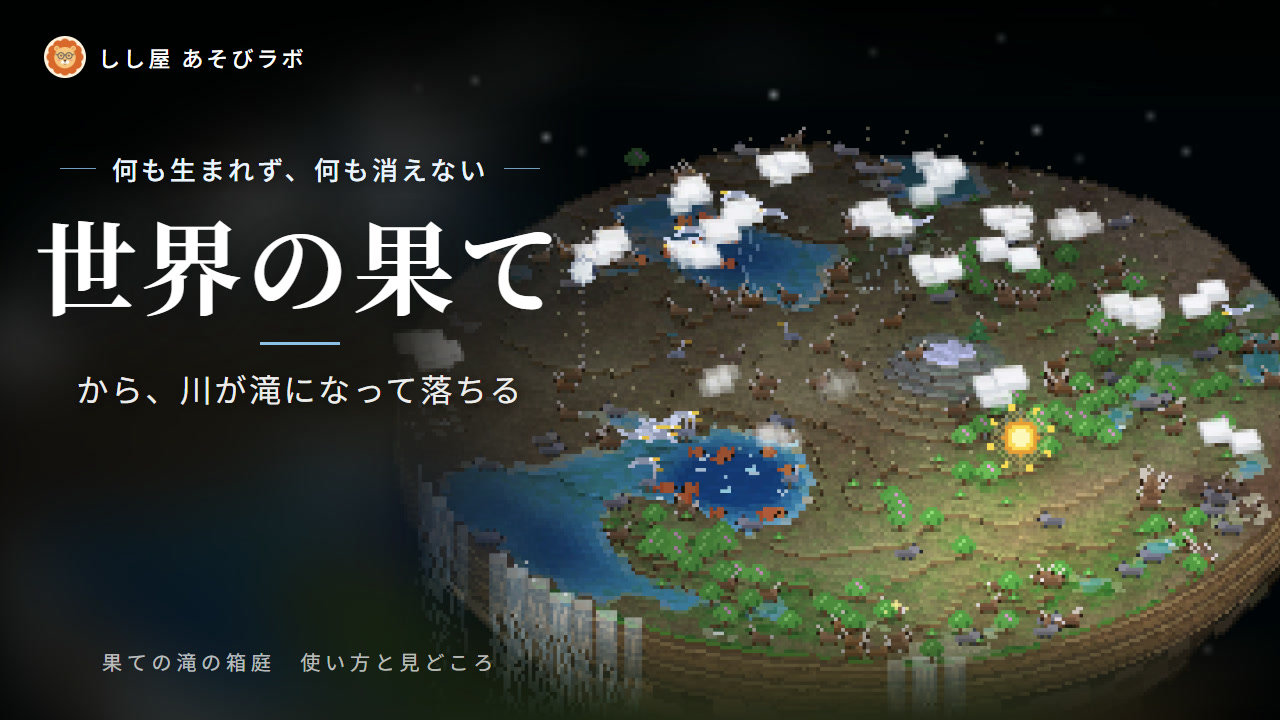
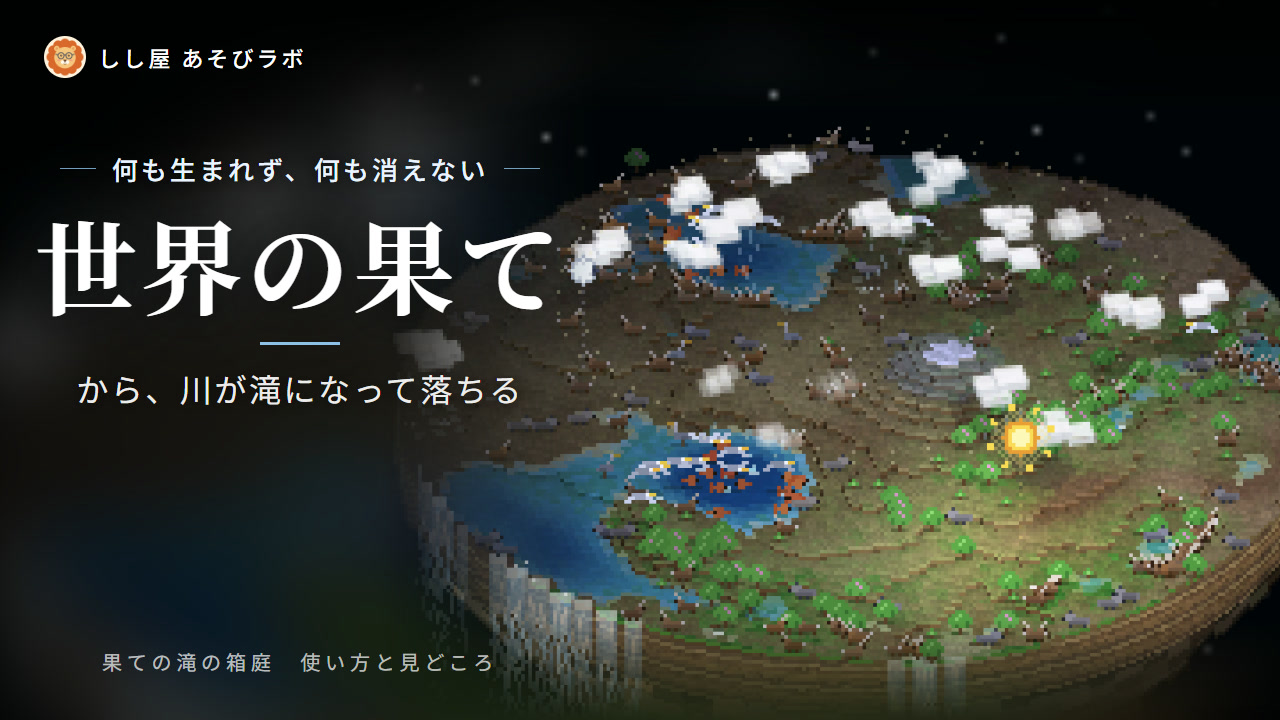
あそびラボ: ネタバレ厳禁のルール・果ての滝の紹介動画からエンディングを外す
- RULES 8章に「ネタバレ厳禁」: 紹介動画・サムネイル・SNS・カードに、エンディングや終盤の山場の演出・最後に明かされることを出さない（ダイジェストは確認用なのでクリアまで）
- ショート・説明動画の終わりを、くずれる演出から「第十の年 めぐる世界」とできた世界に差しかえ
- ダイジェストはエンディングの演出がない版でも十の年を通ったら止まる。?game= で開くゲームを選べる（書きかえ途中のときはコミットずみの版で録る）

diff --git a/_dev/promo/edge-falls.html b/_dev/promo/edge-falls.html
@@ -16,6 +16,7 @@
 // 台本: 果ての滝の箱庭（ショート、縦長 40秒＋締め。?short で開く）
 // ゲームをスマホの大きさ（540×960）で開き、4倍の細かさで描かせる。場面は edge-falls-digest.html が残した章のはじめのセーブから始める
 // （先にダイジェストを録る。セーブは out/edge-falls-save-ch<n>.json）。手（泉・たね）はゲームの道具の関数で打つ
+// エンディング・世界がくずれる演出は見せない（ネタバレ。2026-10-13 ユーザー。RULES 8章）
 const IW = 540, IH = 960, DPR = 4;
 const NAME = '果ての滝の箱庭', SUB = '世界の果てから、川が滝になって落ちる箱庭ゲーム';
 const END_LINE = 'ブラウザで遊べます（パソコン・スマホ）';
@@ -29,8 +30,8 @@ const CAPS = [
     en: ['Each year brings one new kind of life', 'Grass, deer, wolves, fish, herons (ten years)'] },
   { a: 24.4, b: 30.6, main: '何も生まれず、何も消えない', sub: 'ただ、めぐるだけ。食べる・食べられる',
     en: ['Nothing is created, nothing is lost', 'It only goes around. Eat and be eaten'] },
-  { a: 31.0, b: 35.0, main: '十の年をこえると、殻がはがれて…', sub: '',
-    en: ['After ten years, the shell peels away...', ''] },
+  { a: 31.0, b: 35.0, main: '十の年で、どんな世界になる？', sub: '水と命がめぐる世界をつくる',
+    en: ['What will your world become in ten years?', 'Build a world where water and life go around'] },
 ];
 const lakeP = (w, f) => { const W = w.__ef.W, C = efGet(w, 'C'), RD = efGet(w, 'RD'); return { x: C + W.lake.x * RD * f, y: C + W.lake.y * RD * f }; };
 let Y0 = 0;
@@ -52,12 +53,11 @@ const SC = [
     pre: w => { Y0 = w.__ef.V.yaw; },
     view: (V, lt, w) => { const W = w.__ef.W, C = efGet(w, 'C'), RD = efGet(w, 'RD'); V.yaw = Y0 + 0.2 + lt * 0.02; V.tilt = 0.5; V.zoom = 1.9 + lt * 0.03;
       const p = w.proj(C + W.lake.x * RD * 0.6, C + W.lake.y * RD * 0.6, 0); V.panX = (V.panX || 0) + (V.cw / 2 - p.x) * 0.5; V.panY = (V.panY || 0) + (V.ch * 0.45 - p.y) * 0.5; } },
-  // エンディング: 殻がはがれて丸い世界
-  { a: 31.0, b: 99, save: 'ch9', speed: 1, pre: w => { Y0 = w.__ef.V.yaw; w.__ef.V.zoom = 0.98; w.__ef.V.tilt = 0.55; w.__ef.V.panY = -70; },
-    ev: [{ t: 0.4, run: w => w.startCollapse('shell') }] },
+  // しめくくり: できた世界を引いて回す（エンディング・くずれる演出は見せない。RULES 8章）
+  { a: 31.0, b: 99, save: 'ch9', speed: 4, pre: w => { Y0 = w.__ef.V.yaw; }, view: (V, lt) => { V.yaw = Y0 - 0.6 + lt * 0.05; V.tilt = 0.5; V.zoom = 0.9; V.panY = -70; } },
 ];
 promoStart({
-  name: NAME, out: 'edge-falls', src: '../../edge-falls/index.html', iw: IW, ih: IH, dur: SHORT_END + IDENT_CLOSE, peek: 12,
+  name: NAME, out: 'edge-falls', src: EF_SRC, iw: IW, ih: IH, dur: SHORT_END + IDENT_CLOSE, peek: 12,
   inject: { pre: EF_PRE, dpr: DPR },
   music: { style: 'journey', root: 130.81, stopAt: SHORT_END, cues: [{ t: SHORT_END, type: 'jingle' }] },
   subs: shortSubs(NAME, 'Falls at the Edge of the World', SUB, 'A sandbox where rivers pour off the edge of a flat world', CAPS, END_LINE, 'Play in your browser (PC or phone). On-screen text is in Japanese for now'),

diff --git a/_dev/promo/edge-falls-digest.html b/_dev/promo/edge-falls-digest.html
@@ -30,14 +30,14 @@ const out = document.getElementById('out'), g = out.getContext('2d'), go = docum
 const logEl = document.getElementById('log'), log = s => { logEl.textContent += s + '\n'; };
 const iframe = document.getElementById('app');
 (async () => {
-  const base = new URL('../../edge-falls/index.html', location.href);
+  const base = new URL(EF_SRC, location.href);
   const html = await (await fetch(base)).text();
   const head = `<base href="${base.href.replace(/[^/]*$/, '')}"><script>${EF_PRE}Object.defineProperty(window, 'devicePixelRatio', { get: () => ${K} });</` + 'script>';
   iframe.srcdoc = html.replace(/<head[^>]*>/i, m => m + head);
 })();
 
 const YN = ['第一', '第二', '第三', '第四', '第五', '第六', '第七', '第八', '第九', '第十'];
-const REP = { seed: SEED, chapters: [], errors: [], ending: false, days: 0, videoSec: 0, finds: 0 };
+const REP = { seed: SEED, chapters: [], errors: [], clear: false, ending: false, days: 0, videoSec: 0, finds: 0 };
 let w, vi = 0, phase = 'title', phaseV = 0, lastCh = -1, chStartV = 0, endV = 0, rate = 16;
 
 function hud(t) {
@@ -103,12 +103,13 @@ async function step() {
     rate = G.ch % 1 ? 16 : inCh < 4 ? 16 : days > 14 ? 240 : 90;
     sim = Math.max(0, rate / FPS_D - 16 / FPS_D);
     efBot(w);
-    if (efGet(w, 'COL') || G.ch >= 10) { phase = 'ending'; endV = t; rate = 1; log(`エンディングへ: 第 ${W.day} 日（動画 ${t.toFixed(0)} 秒）`); }
+    if (efGet(w, 'COL') || G.ch >= 10) { phase = 'ending'; endV = t; rate = 1; REP.clear = true; REP.clearDay = W.day; log(`エンディングへ: 第 ${W.day} 日（動画 ${t.toFixed(0)} 秒）`); }
   } else if (phase === 'ending') {
     rate = 1;
     const ov = w.document.getElementById('overlay');
     if (!REP.ending && !ov.hidden && /めぐる世界/.test(ov.textContent)) { REP.ending = true; endV = t; log(`エンディングの札が出た（動画 ${t.toFixed(0)} 秒）`); }
     if (REP.ending && t - endV > 6) return false;
+    if (!REP.ending && t - endV > 24) { log('エンディングの札は出なかった（十の年は通った）'); return false; }   // エンディングの演出がない版でも止まる
     // 殻がはがれる演出は自分では終わらないので、まん中まで見せたら「もとにもどす」と同じ道すじで札へ
     if (!REP.ending && t - endV > 16 && efGet(w, 'COL')) w.document.getElementById('btnRestore').click();
   }

diff --git a/_dev/promo/edge-falls-common.js b/_dev/promo/edge-falls-common.js
@@ -5,6 +5,9 @@
 //          ゲームの道具の関数 useTool をそのまま使う（手に持つ・扇で選ぶ・大地を押す、と同じ道すじ）。
 'use strict';
 const EF = { w: null, vt: 0, log: [], acts: [], saves: {} };
+// 開くゲーム。?game=out/game のように渡すと、そこにある edge-falls を開く（別の会話がゲームを書きかえている途中に、コミットずみの版で録るとき。
+// 例: git archive HEAD edge-falls | tar -x -C _dev/promo/out/game）
+const EF_SRC = (new URLSearchParams(location.search).get('game') || '../..') + '/edge-falls/index.html';
 
 // ゲームより先に動く差しかえ（inject.pre）。時計はこちらの __efAdv(ミリ秒) で進む
 const EF_PRE = `

diff --git a/_dev/promo/README.md b/_dev/promo/README.md
@@ -24,11 +24,13 @@
 - BGM はコードで合成した音だけ（`journey`、レの和音）。音の大きさは、まなびラボの説明動画と同じくらい（平均 -37dB、いちばん大きいところ -13dB）。
 
 ## 果ての滝の箱庭（2026-10-13）
+**ネタバレ厳禁**（`../../RULES.md` 8章）: ショート・説明動画・サムネイルにエンディングと世界がくずれる演出を出さない。終わりは第十の年「めぐる世界」までで、できた世界を回して見せる。ダイジェストは確認用なのでクリアまで録る（エンディングの演出がない版でも、十の年を通ったら止まる）。
+
 | 台本 | 中身 | 出力 |
 |---|---|---|
 | `edge-falls-digest.html` | **ダイジェスト**（あそびラボだけ。RULES 8章）: はじめの画面から自動で遊んでエンディングの札まで。1920×1080・音なし・長さは遊んだぶん（約2分半）。`?dry` は録らずに速く通す、`?seed=` は大地の種（はじめは 3）、`?max=秒` で途中で止める | `out/edge-falls-digest.mp4`・`.json`（章ごとの日・見つけたこと・エラー）、章のはじめのセーブ `out/edge-falls-save-ch0〜9.json` |
-| `edge-falls.html?short` | ショート（縦、ゲームをスマホの大きさ 540×960 で）: できた世界 → 泉を2つ・湖と滝 → 草とシカ（時を速めて）→ 湖に寄って生き物 → 殻がはがれて丸い世界 | `out/edge-falls-short.mp4`・`.ja.srt`・`.en.srt` |
-| `edge-falls-guide.html` | 説明動画（横、1280×720 で開いて3倍、ライオンつき）。はじめの画面 → 水がめ・泉 → 土ぶくろで出口を盛る → たね → シカ → 冬と天の輪 → 食べる・食べられる・命が戻る → 遺伝子の平均 → エンディング | `out/edge-falls-guide.mp4`・`.ja.srt`・`.en.srt` |
+| `edge-falls.html?short` | ショート（縦、ゲームをスマホの大きさ 540×960 で）: できた世界 → 泉を2つ・湖と滝 → 草とシカ（時を速めて）→ 湖に寄って生き物 → できた世界を引いて回す（十の年で、どんな世界になる？） | `out/edge-falls-short.mp4`・`.ja.srt`・`.en.srt` |
+| `edge-falls-guide.html` | 説明動画（横、1280×720 で開いて3倍、ライオンつき）。はじめの画面 → 水がめ・泉 → 土ぶくろで出口を盛る → たね → シカ → 冬と天の輪 → 食べる・食べられる・命が戻る → 遺伝子の平均 → 第十の年「めぐる世界」（エンディングは見せない） | `out/edge-falls-guide.mp4`・`.ja.srt`・`.en.srt` |
 
 - 共通の部品は `edge-falls-common.js`。ゲームを srcdoc で開き、ゲームより先に時計を差しかえる（`EF_PRE`: requestAnimationFrame・setTimeout・performance.now をこちらの `__efAdv(ミリ秒)` で進める。知らせや章のことばも動画の時間で消える）。保存してある果ての滝のセーブ・設定は、録る iframe の中で消し、音は切る。
 - 絵はゲームの `#view` に、**ゲームの画面の小物を写して重ねる**（`efDrawUI`: `#field` の中の見えている canvas・img・色の箱・ふち・文字を、画面での位置のとおりに。文字は1字ずつ Range の位置で）。台本ごとに写さないものを `skip` で選ぶ（説明動画は上が字幕なのでお題の1行を写さない、右下はライオン）。
@@ -38,3 +40,4 @@
   `powershell -NoProfile -ExecutionPolicy Bypass -File _dev/tools/record-promo.ps1 -Port 8781 -Script edge-falls-digest`
   `… -Script edge-falls -Short`、`… -Script edge-falls-guide`
 - BGM はコードで合成した音だけ（`journey`、ハの和音）。
+- **別の会話がゲームを書きかえている途中**（コミットしていない変更で動かないなど）は、コミットずみの版を `out/game/` に出して、そちらで録る: `git archive HEAD edge-falls | tar -x -C _dev/promo/out/game`、録るときは `-Query game=out/game`（3本とも `?game=` で開くゲームを選べる）。

diff --git a/RULES.md b/RULES.md
@@ -38,6 +38,7 @@
 
 - **保管庫のカード**（`archive.html`）: 状態の一言 `<p class="state">` は、試作なら「試作（…）」、製品の体裁にしたら「ver. X.Y（…）」。`.foot` の日付は「作成 YYYY-MM-DD ・ 更新 YYYY-MM-DD」で、**更新日はそのゲームの中身（遊び方・内容・画面の説明）が変わった日**（まなびラボ RULES 8.1 と同じ数え方。ファビコンだけの変更などは数えない）。中身を変えたら同じコミットで直す。
 - **配信準備（紹介動画とサムネイル）**: まなびラボと同じ（まなびラボ RULES 8.4〜8.7・`_dev/promo/README.md`）。ショート（縦）と説明動画（横、ライオンつき）、どちらにも自分で作ったサムネイル（`_dev/tools/make-short-thumbs.ps1`）、音量は `_dev/tools/check-loudness.ps1`。道具はあそびラボの `_dev/` に写してある（`_dev/promo/README.md`）。
+- **ネタバレ厳禁（基本ルール。2026-10-13 ユーザー）**: 紹介動画（ショート・説明動画）・サムネイル・SNS の投稿・入口と保管庫のカードやスクリーンショットに、**エンディングや終盤の山場の演出（例: 果ての滝の箱庭の、世界がくずれる・殻がはがれる演出）、最後に明かされること（物語の核心・答え合わせ）を出さない**。見せるのは遊びはじめから中盤の手ざわりまで。終わりは「どうなるかは遊んでたしかめて」の形にとどめる。今後そういう演出を足したときも同じ。迷うものは出さずにユーザーに聞く。ダイジェスト（下）は公開しない確認用なので、クリアまで録ってよい。
 - **ダイジェスト（あそびラボだけ。2026-10-13 ユーザー）**: 配信準備のとき、**ゲームクリアまでを自動で遊んだダイジェストの動画**も録る（`_dev/promo/<game>-digest.html` → `out/<game>-digest.mp4`・`.json`）。ねらいは**大枠があっているかの確認**（ユーザー「手触りは適宜人間が行う。毎回プレイしてデバッグするのは時間を食いすぎるから」）。自動で遊ぶ手はゲームの道具の関数をそのまま使い、物理や数を曲げない。左上に日・章・速さ・数、下に章の進み。録ったら、`.json`（章ごとの日数・エンディングまで行けたか・ゲームのエラー）とコマを見て、結果（通ったか・長すぎる章・気になること）をユーザーに伝える。公開はしない（`out/` は Git に入れない）。ゲームを大きく変えたら録りなおす。
 - **ライセンス**（2026-10-13 ユーザー）: コードは MIT（`LICENSE`）、ゲームの中身（名前・文章・デザイン・画像・音・文書）は CC BY-NC 4.0（`LICENSE-CONTENT`）。新しいゲームもこれに入る。ほかの人の素材やライブラリを足したら、README の「ライセンス」に名前とライセンスを書く。
 - 別の会話が同じ共有ファイル（`archive.html`・`README.md`・`CLAUDE.md`）を直している途中のことがある。コミットには**自分の行だけ**を入れる（ほかの会話の変更をまぜない。まぜたらコミットの報告で伝える）。
